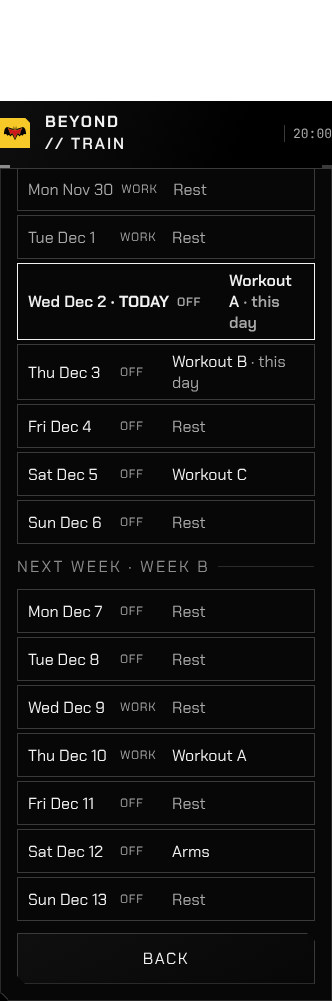
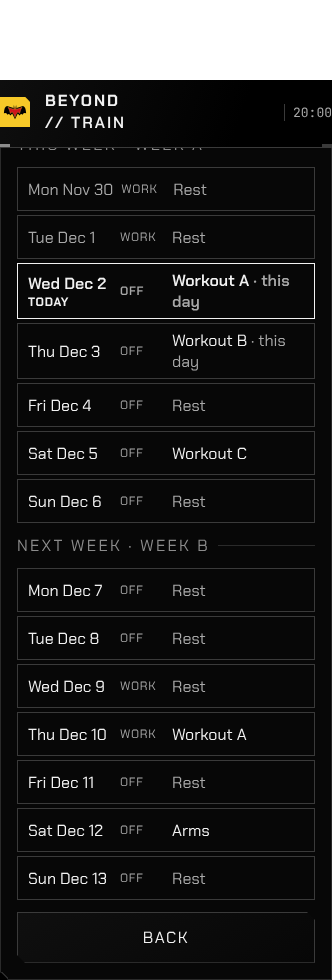
GRAYSON-WEEK-PLAN-001: today's row reads cleanly at 320 px (TODAY on its own line; names wrap between words)
Claude-Session: https://claude.ai/code/session_01UR9w2qKnk7HsrNy7aWN6XB

Changed region(s): [[0.0301, 0.1837, 0.9337, 0.9184], [0.0, 0.0612, 1.0, 0.1837], [0.4217, 0.949, 0.5723, 0.9796]]

diff --git a/src/ui/screens/train/WeekPlan.tsx b/src/ui/screens/train/WeekPlan.tsx
@@ -78,7 +78,7 @@ export function WeekPlan({ onChanged, onClose }: { onChanged: () => Promise<void
               disabled={busy || !view.plan || day.past}
               aria-label={`${day.weekday} ${shortDate(day.date)}${day.today ? ", today" : ""}${day.work === "WORK" ? ", work day" : ""}: ${day.name}${day.source === "OVERRIDE" ? ", just this day" : ""}${view.plan && !day.past ? ". Change" : ""}`}
               onClick={() => { returnFocus.current = dayId(day.date); setSaved(null); setEditing(day); }}>
-              <span className="week-plan__when">{day.weekday.slice(0, 3)} {shortDate(day.date)}{day.today && <b> · TODAY</b>}</span>
+              <span className="week-plan__when">{day.weekday.slice(0, 3)} {shortDate(day.date)}{day.today && <b>TODAY</b>}</span>
               <span className="week-plan__work">{day.work === "WORK" ? "WORK" : day.work === "OFF" ? "OFF" : ""}</span>
               <span className="week-plan__what">{day.name}{day.source === "OVERRIDE" && <span className="meta"> · this day</span>}</span>
             </button>

diff --git a/src/ui/screens/train/weekPlan.css b/src/ui/screens/train/weekPlan.css
@@ -14,6 +14,7 @@
 .week-plan__day[data-rest] .week-plan__what { color: var(--text-2); }
 .week-plan__day:focus-visible { outline: 2px solid var(--focus, var(--text-1)); outline-offset: 2px; }
 .week-plan__when { font-variant-numeric: tabular-nums; white-space: nowrap; }
+.week-plan__when b { display: block; font-size: 12px; letter-spacing: .06em; }
 .week-plan__work { font-size: 12px; letter-spacing: .06em; color: var(--text-2); }
-.week-plan__what { overflow-wrap: anywhere; }
+.week-plan__what { overflow-wrap: break-word; min-width: 0; }
 .week-plan__choices { border: 0; margin: 8px 0; padding: 0; display: grid; gap: 2px; }
